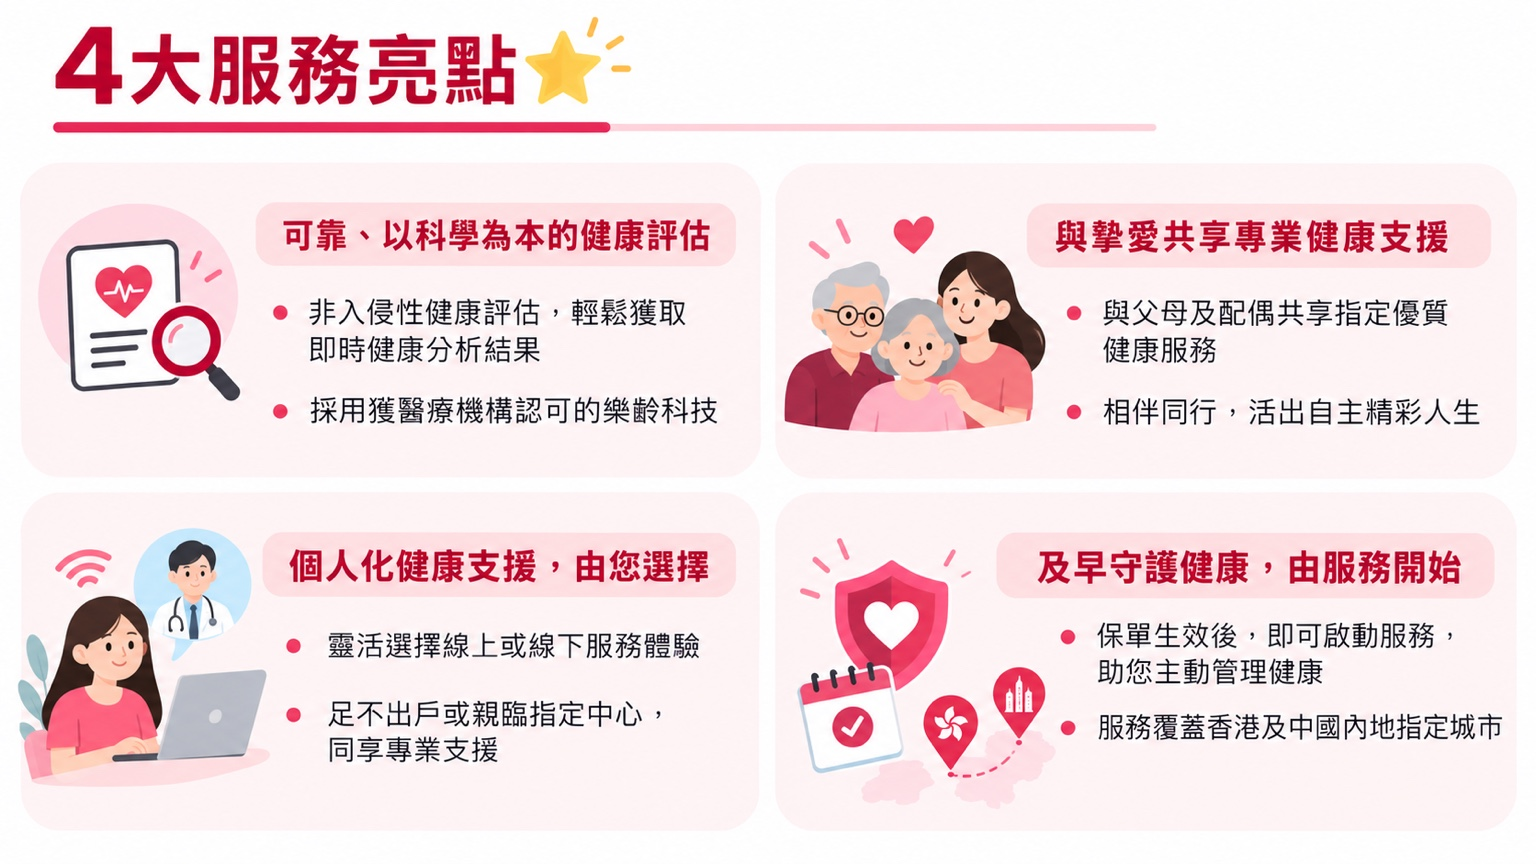
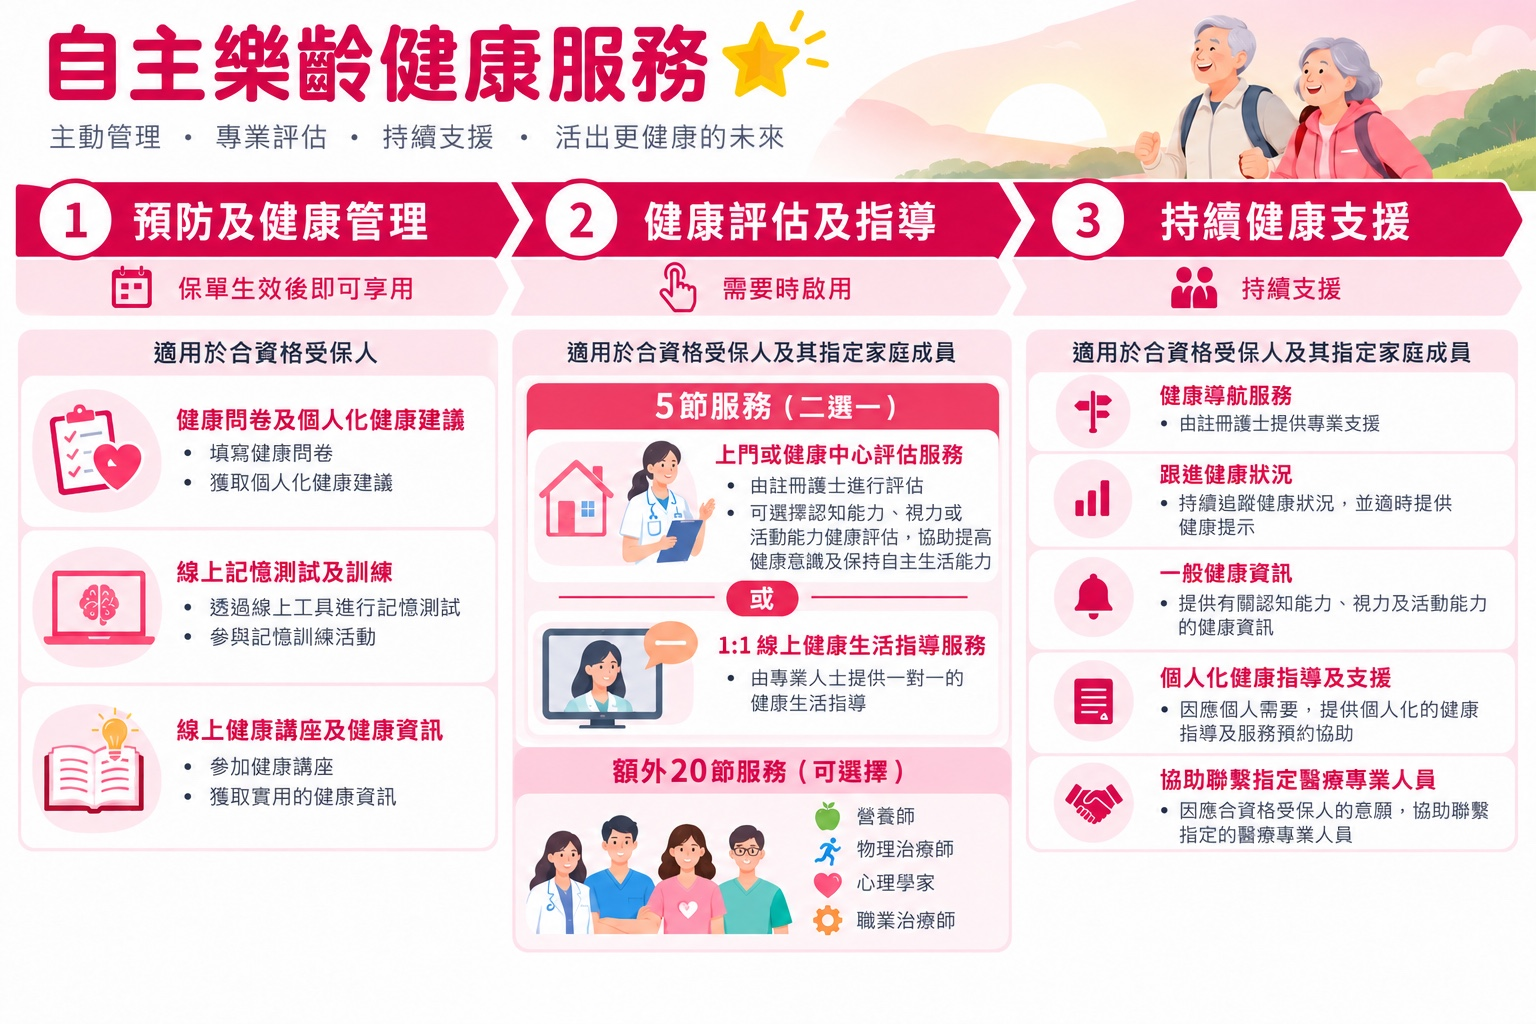
EverBliss v0.4.12 — replace F04 health service infographic

diff --git a/tests/owner-image-assets.test.js b/tests/owner-image-assets.test.js
@@ -1,4 +1,4 @@
 import test from 'node:test';import assert from 'node:assert/strict';import fs from 'node:fs';
 const names=['health-extra-income.jpeg','designated-recipient-option.jpeg','designated-recipient-eligibility.jpeg','healthy-ageing-four-highlights.jpeg','healthy-ageing-services.jpeg'];
 test('all feature assets exist, are valid JPEGs, and are included in PWA shell',()=>{const sw=fs.readFileSync('src/pwa/sw-template.js','utf8');for(const name of names){const path=`assets/aia/owner-reference/${name}`,buf=fs.readFileSync(path);assert.ok(buf.length>10000);assert.equal(buf[0],0xff);assert.equal(buf[1],0xd8);assert.ok(sw.includes('./'+path));}});
-test('correct pages and image ordering, enlargement and responsive rules',()=>{const s=fs.readFileSync('src/app/main.js','utf8'),css=fs.readFileSync('src/ui/styles.css','utf8');const section=(a,b)=>s.slice(s.indexOf(`function ${a}(`),s.indexOf(`function ${b}(`));const health=section('renderHealth','renderCare'),care=section('renderCare','renderAdvance'),services=section('renderServices','oalaNotes');assert.ok(health.indexOf('指定健康情況')<health.indexOf(names[0]));assert.ok(care.indexOf(names[1])<care.indexOf(names[2]));assert.ok(services.indexOf(names[3])<services.indexOf(names[4]));assert.doesNotMatch(services,/service-structure.webp/);assert.match(s,/dialog\.showModal\(\)/);assert.match(s,/dialog\.close\(\)/);assert.match(css,/feature-reference-image\{width:100%;max-width:100%/);});
+test('correct pages and image ordering, enlargement and responsive rules',()=>{const s=fs.readFileSync('src/app/main.js','utf8'),css=fs.readFileSync('src/ui/styles.css','utf8');const section=(a,b)=>s.slice(s.indexOf(`function ${a}(`),s.indexOf(`function ${b}(`));const health=section('renderHealth','renderCare'),care=section('renderCare','renderAdvance'),services=section('renderServices','oalaNotes');assert.ok(health.indexOf('指定健康情況')<health.indexOf(names[0]));assert.ok(care.indexOf(names[1])<care.indexOf(names[2]));assert.ok(services.includes(names[3]));assert.ok(!services.includes(names[4]));assert.doesNotMatch(services,/service-structure.webp/);assert.match(s,/dialog\.showModal\(\)/);assert.match(s,/dialog\.close\(\)/);assert.match(css,/feature-reference-image\{width:100%;max-width:100%/);});

diff --git a/tests/pwa-update.test.js b/tests/pwa-update.test.js
@@ -25,11 +25,11 @@ function harness(buildId,cachesMap,posted,indexedDBRef,fetchImpl=globalThis.fetc
 }
 async function runLifecycle(h,kind){let promise;h.handlers[kind]({waitUntil:p=>{promise=p;}});await promise;}
 
-test("v0.4.11 shell loads and build stamps a unique deployment identifier",()=>{
-  return fs.readFile(path.join(root,"release.json"),"utf8").then(async raw=>{const release=JSON.parse(raw);assert.equal(release.version,"v0.4.11");
+test("v0.4.12 shell loads and build stamps a unique deployment identifier",()=>{
+  return fs.readFile(path.join(root,"release.json"),"utf8").then(async raw=>{const release=JSON.parse(raw);assert.equal(release.version,"v0.4.12");
   const built=execFileSync(process.execPath,[path.join(root,"scripts/build.js")],{cwd:root,env:{...process.env,GITHUB_SHA:"test-sha-001"},encoding:"utf8"});
-  assert.match(built,/Built EverBliss v0\.4\.11 \(test-sha-001\)/);
-  const [sw,meta,index,info]=await Promise.all([fs.readFile(path.join(root,"dist/sw.js"),"utf8"),fs.readFile(path.join(root,"dist/release.json"),"utf8"),fs.readFile(path.join(root,"dist/index.html"),"utf8"),fs.readFile(path.join(root,"dist/build-info.js"),"utf8")]);assert.match(sw,/const BUILD_ID = "test-sha-001"/);assert.equal(JSON.parse(meta).buildId,"test-sha-001");assert.match(index,/<small id="app-version">v0\.4\.11<\/small>/);assert.match(info,/"version":"v0\.4\.11"/);});
+  assert.match(built,/Built EverBliss v0\.4\.12 \(test-sha-001\)/);
+  const [sw,meta,index,info]=await Promise.all([fs.readFile(path.join(root,"dist/sw.js"),"utf8"),fs.readFile(path.join(root,"dist/release.json"),"utf8"),fs.readFile(path.join(root,"dist/index.html"),"utf8"),fs.readFile(path.join(root,"dist/build-info.js"),"utf8")]);assert.match(sw,/const BUILD_ID = "test-sha-001"/);assert.equal(JSON.parse(meta).buildId,"test-sha-001");assert.match(index,/<small id="app-version">v0\.4\.12<\/small>/);assert.match(info,/"version":"v0\.4\.12"/);});
 });
 
 test("next deployment changes the worker, stages new shell, activates it and safely retires prior shell",async()=>{

diff --git a/tests/data-integrity.test.js b/tests/data-integrity.test.js
@@ -61,7 +61,7 @@ test("result rendering keeps the first guaranteed phase primary and supports con
   assert.doesNotMatch(source,/renderResult=correctedRenderResult/);
 });
 test("release version has one canonical source and matches visible label contract",()=>{
-  const release=JSON.parse(fs.readFileSync(path.join(root,"release.json"),"utf8"));assert.equal(release.version,"v0.4.11");
+  const release=JSON.parse(fs.readFileSync(path.join(root,"release.json"),"utf8"));assert.equal(release.version,"v0.4.12");
   const main=fs.readFileSync(path.join(root,"src/app/main.js"),"utf8");const html=fs.readFileSync(path.join(root,"index.html"),"utf8");const build=fs.readFileSync(path.join(root,"scripts/build.js"),"utf8");
   assert.match(main,/EVERBLISS_RELEASE\?\.version/);assert.match(html,/id="app-version"/);assert.match(html,/__EVERBLISS_VERSION__/);assert.match(build,/build-info\.js/);assert.doesNotMatch(main,/AVA_VERSION\s*=/);
 });

diff --git a/README.md b/README.md
@@ -65,4 +65,4 @@ The app-owned Admin surface has Product Config, Income Rates, Surrender Multipli
 
 ## Version
 
-The single user-facing App version source is `release.json`: `v0.4.11`. The deployment SHA is generated build metadata and remains separate from the human-readable version. Customer-facing production changes must bump the semantic App version; the release-contract workflow validates the source and generated artifacts.
+The single user-facing App version source is `release.json`: `v0.4.12`. The deployment SHA is generated build metadata and remains separate from the human-readable version. Customer-facing production changes must bump the semantic App version; the release-contract workflow validates the source and generated artifacts.
